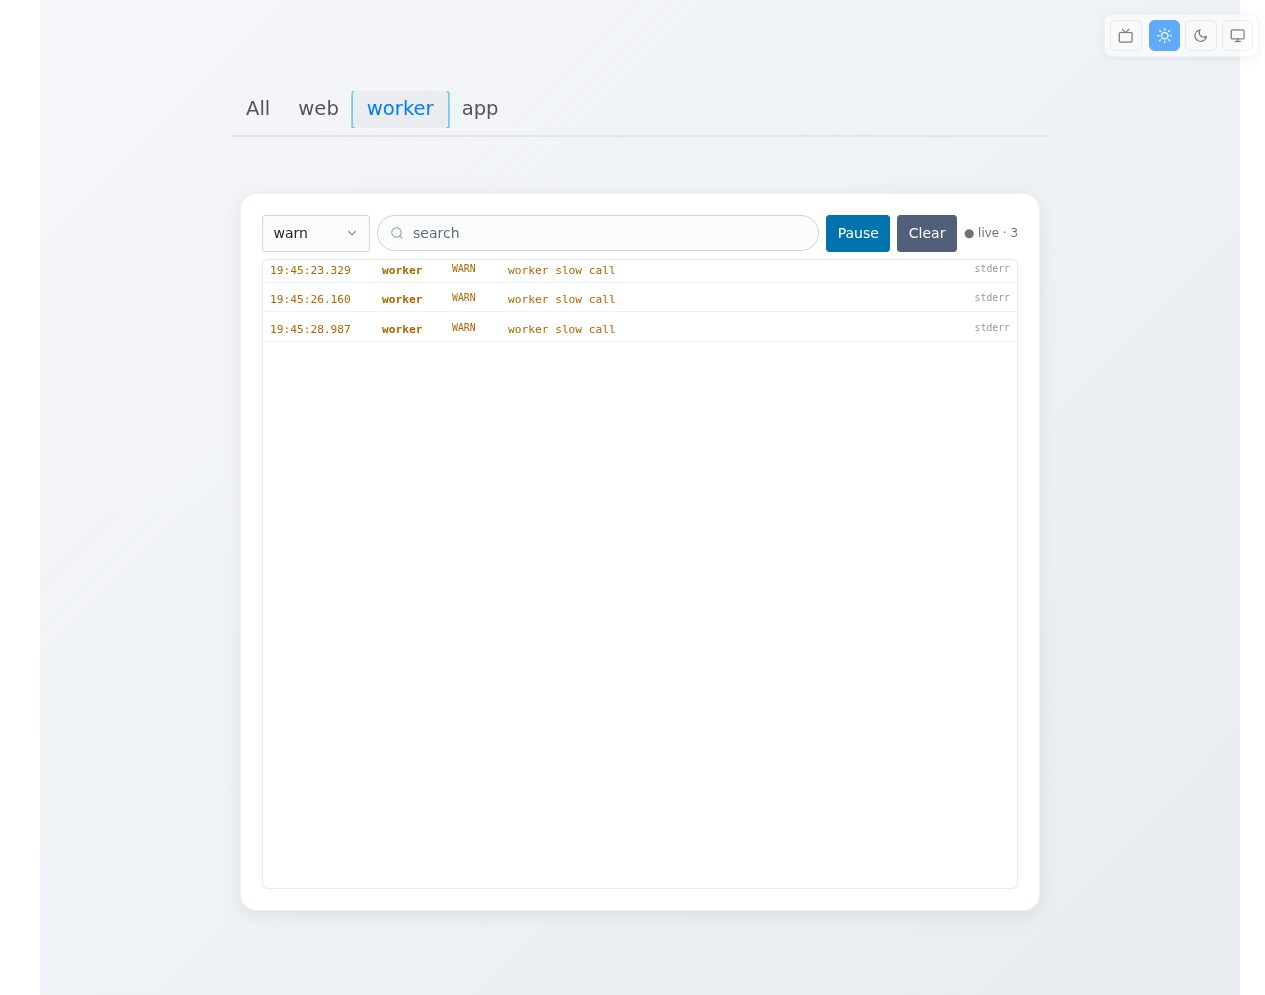
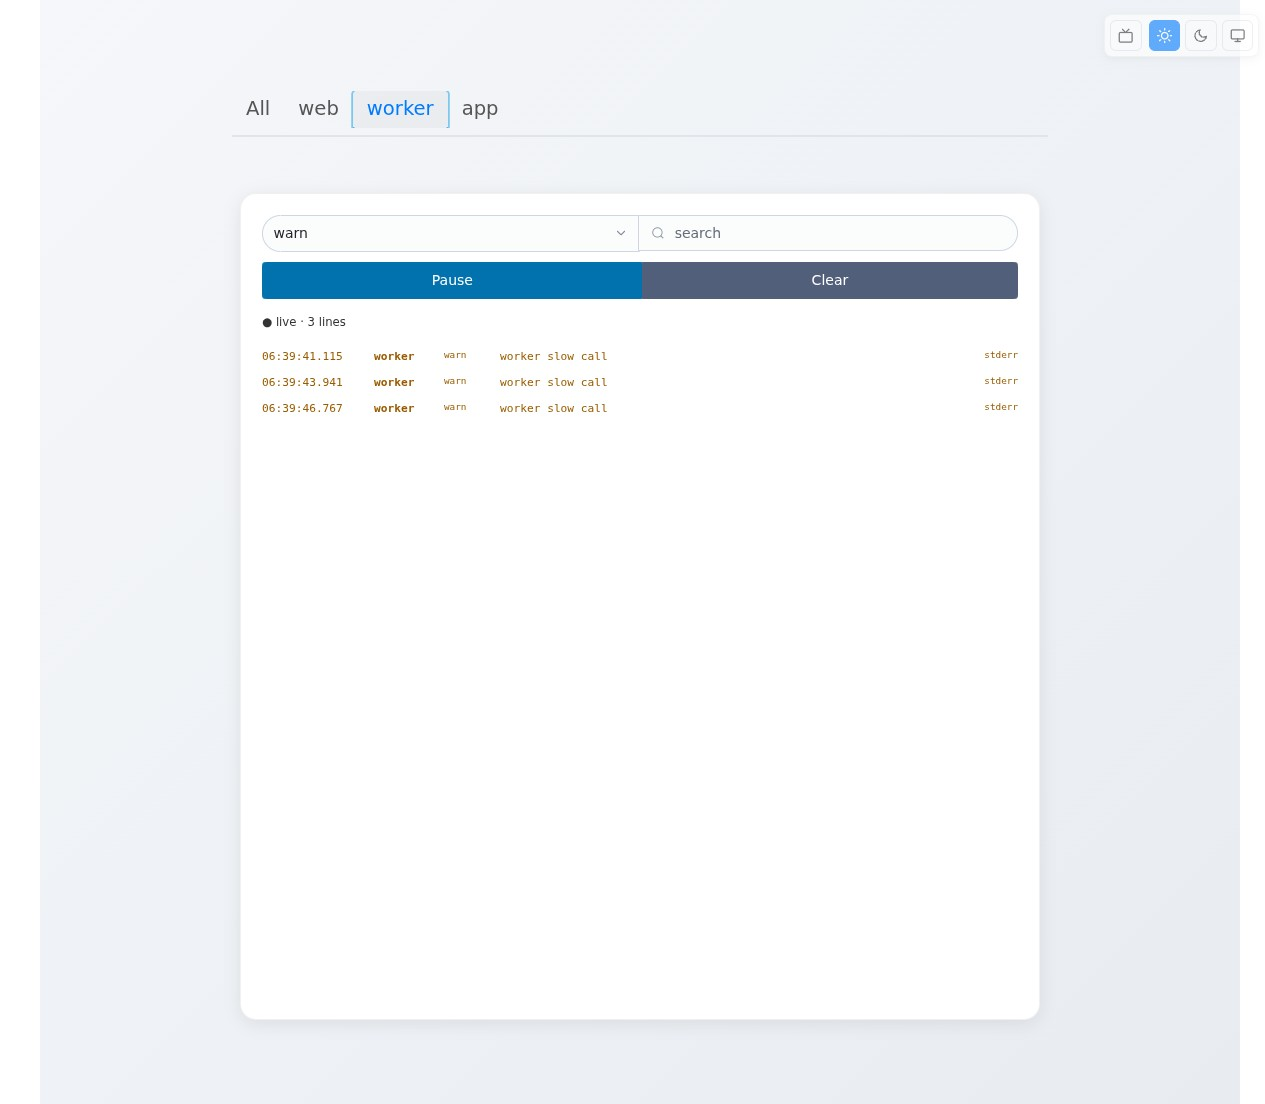
Use Pico's controls and tinkerdown's row colours, keep only layout CSS
The filter form is a Pico search group and the buttons a Pico group.
Level colours come from tinkerdown's stream row styles, so the page's
CSS is now the row grid, the scroll box and the phone layout.

Needs tinkerdown with stream row styles (feat/stream-row-styles).

Claude-Session: https://claude.ai/code/session_01H17jLZ8QrVBa63r4MNcuSH

diff --git a/e2e/e2e_test.go b/e2e/e2e_test.go
@@ -298,6 +298,13 @@ func TestLogViewer(t *testing.T) {
 		fmt.Fprintln(f, `{"level":"error","msg":"disk almost full"}`)
 		f.Close()
 		waitJS("the appended line", `[...document.querySelectorAll("li.src-app .msg")].some(m => m.textContent === "disk almost full")`)
+		// tinkerdown colours rows by level; the page has no colour rules of its own.
+		var coloured bool
+		eval(`(() => { const c = s => getComputedStyle(document.querySelector(s)).color; return c("li.lvl-error") !== c("li.lvl-info"); })()`, &coloured)
+		if !coloured {
+			dump()
+			t.Fatal("error rows are not coloured")
+		}
 	})
 
 	pauseResumeClear := func(t *testing.T) {

diff --git a/index.md b/index.md
@@ -38,55 +38,41 @@ sources:
 ## [All] | [web] source = web | [worker] source = worker | [app] source = app
 
 ```lvt
-<main lvt-source="all" class="viewer">
-  <div class="toolbar">
-    <form name="Filter">
-      <select name="f.level" data-testid="level" lvt-on:change="Filter" aria-label="Level">
-        <option value="">any level</option>
-        <option value="error">error</option>
-        <option value="warn">warn</option>
-        <option value="info">info</option>
-        <option value="debug">debug</option>
-      </select>
-      <input type="search" name="f.line" data-testid="search" placeholder="search" aria-label="Search"
-             lvt-on:input="Filter" lvt-mod:debounce="250">
-    </form>
+<main lvt-source="all">
+  <form name="Filter" role="search">
+    <select name="f.level" data-testid="level" lvt-on:change="Filter" aria-label="Level">
+      <option value="">any level</option>
+      <option value="error">error</option>
+      <option value="warn">warn</option>
+      <option value="info">info</option>
+      <option value="debug">debug</option>
+    </select>
+    <input type="search" name="f.line" data-testid="search" placeholder="search" aria-label="Search"
+           lvt-on:input="Filter" lvt-mod:debounce="250">
+  </form>
+  <div role="group">
     {{if .Paused}}<button name="Resume" data-testid="resume">Resume</button>{{else}}<button name="Pause" data-testid="pause">Pause</button>{{end}}
     <button name="Clear" data-testid="clear" class="secondary">Clear</button>
-    <span class="status" data-testid="status">{{if .Paused}}paused{{else}}● live{{end}} · {{len .Data}}</span>
   </div>
+  <small data-testid="status">{{if .Paused}}paused{{else}}● live{{end}} · {{len .Data}} lines</small>
   {{if .Error}}<p data-testid="error"><mark>{{.Error}}</mark></p>{{end}}
 
   <ol class="log" data-testid="log" lvt-fx:scroll="bottom-sticky">
-    {{- range .Data}}<li data-key="{{.seq}}" class="lvl-{{.level}} stream-{{.stream}} src-{{.source}}"><time>{{.time}}</time><b class="src">{{.source}}</b><i class="lvl">{{.level}}</i><span class="msg">{{.msg}}</span><span class="std">{{.stream}}</span></li>{{end -}}
+    {{- range .Data}}<li data-key="{{.seq}}" class="lvl-{{.level}} stream-{{.stream}} src-{{.source}}"><time>{{.time}}</time><b class="src">{{.source}}</b><small class="lvl">{{.level}}</small><span class="msg">{{.msg}}</span><small class="std">{{.stream}}</small></li>{{end -}}
   </ol>
 </main>
 ```
 
 <style>
-.viewer .toolbar { display: flex; flex-wrap: wrap; gap: .5rem; align-items: center; margin-bottom: .5rem; }
-.viewer .toolbar form { display: flex; gap: .5rem; flex: 1 1 18rem; min-width: 0; margin: 0; }
-.viewer .toolbar select, .viewer .toolbar input, .viewer .toolbar button { margin: 0; width: auto; }
-.viewer .toolbar input[type=search] { flex: 1; min-width: 0; }
-.viewer .status { font-size: .85rem; opacity: .7; white-space: nowrap; }
-.log { height: 70vh; overflow-y: auto; margin: 0; padding: 0; list-style: none;
-       font: .8rem/1.5 ui-monospace, SFMono-Regular, Menlo, monospace; border: 1px solid var(--pico-muted-border-color, #ddd); border-radius: 6px; }
+/* Level colours come from tinkerdown and controls from Pico; this is layout. */
+.log { height: 70vh; overflow-y: auto; padding: 0; list-style: none; font: .8rem/1.5 var(--pico-font-family-monospace); }
 /* content-visibility skips layout and paint for rows scrolled out of view */
-.log li { content-visibility: auto; contain-intrinsic-size: auto 1.6rem; display: grid; grid-template-columns: 7.5rem 4.5rem 3.5rem 1fr auto; gap: .5rem; padding: .1rem .5rem; border-bottom: 1px solid rgba(127,127,127,.12); }
-.log .src { font-weight: 600; overflow: hidden; text-overflow: ellipsis; }
-.log .lvl { font-style: normal; text-transform: uppercase; font-size: .7rem; }
-.log .msg { word-break: break-word; }
-.log .std { visibility: hidden; font-size: .7rem; color: #999; }
-.log .stream-stderr .std, .log .stream-system .std { visibility: visible; }
-.log .lvl-error, .log .lvl-fatal { color: #d93526; }
-.log .lvl-warn { color: #b06500; }
-.log .lvl-debug, .log .lvl-trace, .log .stream-system { color: #888; }
-.log .stream-system { font-style: italic; }
+.log li { content-visibility: auto; contain-intrinsic-size: auto 1.6rem; display: grid; grid-template-columns: 7.5rem 4.5rem 3.5rem 1fr auto; gap: .5rem; overflow-wrap: anywhere; }
+.log .std { visibility: hidden; }
+.log :is(.stream-stderr, .stream-system) .std { visibility: visible; }
 @media (max-width: 600px) {
-  .viewer .toolbar form { flex-basis: 100%; }
   .log li { grid-template-columns: auto auto 1fr; }
   .log .src { display: none; }
-  .log .std { justify-self: end; }
   .log .msg { grid-column: 1 / -1; grid-row: 2; }
 }
 </style>
